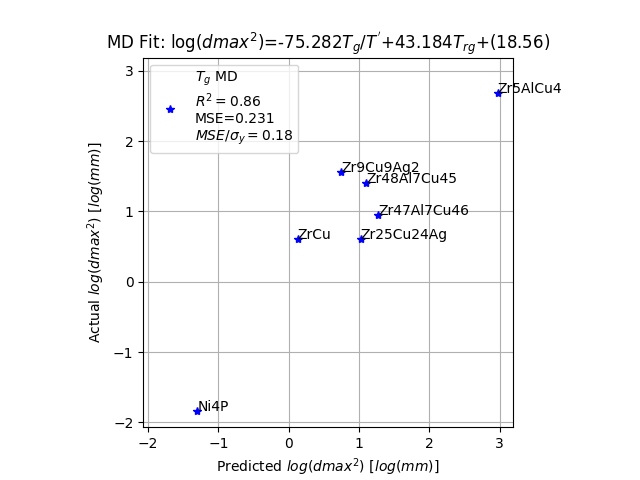
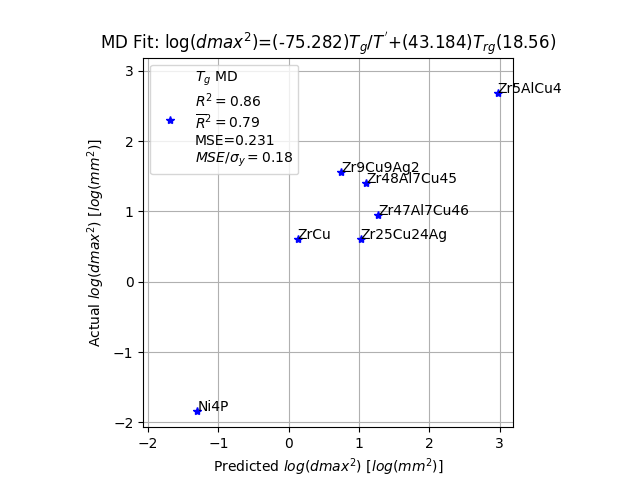
including r2bar metric for predictions

diff --git a/ml/visc_diff/scripts/fit_md_visc_tcut.py b/ml/visc_diff/scripts/fit_md_visc_tcut.py
@@ -9,14 +9,17 @@ import numpy as np
 import pickle
 
 
-def score(label, r2, mse, mseoversigmay, digits):
+def score(label, r2, r2bar, mse, mseoversigmay, digits):
 
     r2 = str(round(r2, digits))
+    r2bar = str(round(r2bar, digits))
     mse = str(round(mse, digits))
     mseoversigmay = str(round(mseoversigmay, digits))
 
     label += '\n'
     label += r'$R^{2}=$'+r2
+    label += '\n'
+    label += r'$\overline{R}^{2}=$'+r2bar
     label += '\n'
     label += r'MSE='+mse
     label += '\n'
@@ -27,12 +30,14 @@ def score(label, r2, mse, mseoversigmay, digits):
 
 def ml(reg, X_train, y_train):
 
+    samples = len(y_train)
     y_pred = reg.predict(X_train)  # Predictions
     r2 = metrics.r2_score(y_train, y_pred)  # R^2
+    r2bar = 1-(1-r2)*(samples-1)/(samples-len(reg.coef_)-1)
     mse = metrics.mean_squared_error(y_train, y_pred)  # MSE
     mseoversigmay = mse/np.std(y_train)  # MSE/sigmay
 
-    return y_pred, r2, mse, mseoversigmay
+    return y_pred, r2, r2bar, mse, mseoversigmay
 
 
 # Data path
@@ -56,11 +61,11 @@ intercpet = reg.intercept_  # Intercept
 
 # Predictions
 pred = ml(reg, X_train, y_train)
-y_pred, r2, mse, mseoversigmay = pred
+y_pred, r2, r2bar, mse, mseoversigmay = pred
 
 # Save performance scores
-score_type = ['r2', 'mse', 'mseoversigmay']
-score_value = [r2, mse, mseoversigmay]
+score_type = ['r2','r2bar', 'mse', 'mseoversigmay']
+score_value = [r2, r2bar, mse, mseoversigmay]
 df_score = pd.DataFrame({
                          'metric': score_type,
                          'score': score_value
@@ -77,9 +82,9 @@ fig, ax = pl.subplots()
 sigs = 3
 label = 'MD Fit: '
 label += r'log($dmax^2$)='
-label += str(round(coeffs[0], sigs))+r"$T_{g}/T^{*}$+"
-label += str(round(coeffs[1], sigs))+r'$T_{rg}$'
-label += '+('+str(round(intercpet, sigs))+')'
+label += '('+str(round(coeffs[0], sigs))+r"$)T_{g}/T^{'}$+"
+label += '('+str(round(coeffs[1], sigs))+r'$)T_{rg}$'
+label += '('+str(round(intercpet, sigs))+')'
 
 ax.set_title(label)
 
@@ -89,20 +94,20 @@ ax.plot(
         marker='*',
         linestyle='none',
         color='b',
-        label=score(r'$T_{g}$ MD', r2, mse, mseoversigmay, sigs)
+        label=score(r'$T_{g}$ MD', r2, r2bar, mse, mseoversigmay, sigs)
         )
 
 ax.legend(loc='best')
 ax.grid()
 
-ax.set_xlabel(r'Predicted $log(dmax^2)$ $[log(mm)]$')
-ax.set_ylabel(r'Actual $log(dmax^2)$ $[log(mm)]$')
+ax.set_xlabel(r'Predicted $log(dmax^2)$ $[log(mm^{2})]$')
+ax.set_ylabel(r'Actual $log(dmax^2)$ $[log(mm^{2})]$')
 
 if ax.get_ylim()[1] > ax.get_xlim()[1]:
     max_lim = ax.get_ylim()[1]
 else:
     max_lim = ax.get_xlim()[1]
-    
+
 if ax.get_ylim()[0] < ax.get_xlim()[0]:
     min_lim = ax.get_ylim()[0]
 else:

diff --git a/ml/visc_diff_Nb2Ni3_removed/scripts/fit_md_visc_tcut.py b/ml/visc_diff_Nb2Ni3_removed/scripts/fit_md_visc_tcut.py
@@ -9,14 +9,17 @@ import numpy as np
 import pickle
 
 
-def score(label, r2, mse, mseoversigmay, digits):
+def score(label, r2, r2bar, mse, mseoversigmay, digits):
 
     r2 = str(round(r2, digits))
+    r2bar = str(round(r2bar, digits))
     mse = str(round(mse, digits))
     mseoversigmay = str(round(mseoversigmay, digits))
 
     label += '\n'
     label += r'$R^{2}=$'+r2
+    label += '\n'
+    label += r'$\overline{R}^{2}=$'+r2bar
     label += '\n'
     label += r'MSE='+mse
     label += '\n'
@@ -27,12 +30,14 @@ def score(label, r2, mse, mseoversigmay, digits):
 
 def ml(reg, X_train, y_train):
 
+    samples = len(y_train)
     y_pred = reg.predict(X_train)  # Predictions
     r2 = metrics.r2_score(y_train, y_pred)  # R^2
+    r2bar = 1-(1-r2)*(samples-1)/(samples-len(reg.coef_)-1)
     mse = metrics.mean_squared_error(y_train, y_pred)  # MSE
     mseoversigmay = mse/np.std(y_train)  # MSE/sigmay
 
-    return y_pred, r2, mse, mseoversigmay
+    return y_pred, r2, r2bar, mse, mseoversigmay
 
 
 # Data path
@@ -57,11 +62,11 @@ intercpet = reg.intercept_  # Intercept
 
 # Predictions
 pred = ml(reg, X_train, y_train)
-y_pred, r2, mse, mseoversigmay = pred
+y_pred, r2, r2bar, mse, mseoversigmay = pred
 
 # Save performance scores
-score_type = ['r2', 'mse', 'mseoversigmay']
-score_value = [r2, mse, mseoversigmay]
+score_type = ['r2','r2bar', 'mse', 'mseoversigmay']
+score_value = [r2, r2bar, mse, mseoversigmay]
 df_score = pd.DataFrame({
                          'metric': score_type,
                          'score': score_value
@@ -78,9 +83,9 @@ fig, ax = pl.subplots()
 sigs = 3
 label = 'MD Fit: '
 label += r'log($dmax^2$)='
-label += str(round(coeffs[0], sigs))+r"$T_{g}/T^{*}$+"
-label += str(round(coeffs[1], sigs))+r'$T_{rg}$'
-label += '+('+str(round(intercpet, sigs))+')'
+label += '('+str(round(coeffs[0], sigs))+r"$)T_{g}/T^{'}$+"
+label += '('+str(round(coeffs[1], sigs))+r'$)T_{rg}$'
+label += '('+str(round(intercpet, sigs))+')'
 
 ax.set_title(label)
 
@@ -90,20 +95,20 @@ ax.plot(
         marker='*',
         linestyle='none',
         color='b',
-        label=score(r'$T_{g}$ MD', r2, mse, mseoversigmay, sigs)
+        label=score(r'$T_{g}$ MD', r2, r2bar, mse, mseoversigmay, sigs)
         )
 
 ax.legend(loc='best')
 ax.grid()
 
-ax.set_xlabel(r'Predicted $log(dmax^2)$ $[log(mm)]$')
-ax.set_ylabel(r'Actual $log(dmax^2)$ $[log(mm)]$')
+ax.set_xlabel(r'Predicted $log(dmax^2)$ $[log(mm^{2})]$')
+ax.set_ylabel(r'Actual $log(dmax^2)$ $[log(mm^{2})]$')
 
 if ax.get_ylim()[1] > ax.get_xlim()[1]:
     max_lim = ax.get_ylim()[1]
 else:
     max_lim = ax.get_xlim()[1]
-    
+
 if ax.get_ylim()[0] < ax.get_xlim()[0]:
     min_lim = ax.get_ylim()[0]
 else:

diff --git a/ml/visc_diff/scripts/fit_md_diff_tcut.py b/ml/visc_diff/scripts/fit_md_diff_tcut.py
@@ -9,14 +9,17 @@ import numpy as np
 import pickle
 
 
-def score(label, r2, mse, mseoversigmay, digits):
+def score(label, r2, r2bar, mse, mseoversigmay, digits):
 
     r2 = str(round(r2, digits))
+    r2bar = str(round(r2bar, digits))
     mse = str(round(mse, digits))
     mseoversigmay = str(round(mseoversigmay, digits))
 
     label += '\n'
     label += r'$R^{2}=$'+r2
+    label += '\n'
+    label += r'$\overline{R}^{2}=$'+r2bar
     label += '\n'
     label += r'MSE='+mse
     label += '\n'
@@ -27,12 +30,14 @@ def score(label, r2, mse, mseoversigmay, digits):
 
 def ml(reg, X_train, y_train):
 
+    samples = len(y_train)
     y_pred = reg.predict(X_train)  # Predictions
     r2 = metrics.r2_score(y_train, y_pred)  # R^2
+    r2bar = 1-(1-r2)*(samples-1)/(samples-len(reg.coef_)-1)
     mse = metrics.mean_squared_error(y_train, y_pred)  # MSE
     mseoversigmay = mse/np.std(y_train)  # MSE/sigmay
 
-    return y_pred, r2, mse, mseoversigmay
+    return y_pred, r2, r2bar, mse, mseoversigmay
 
 
 # Data path
@@ -56,11 +61,11 @@ intercpet = reg.intercept_  # Intercept
 
 # Predictions
 pred = ml(reg, X_train, y_train)
-y_pred, r2, mse, mseoversigmay = pred
+y_pred, r2, r2bar, mse, mseoversigmay = pred
 
 # Save performance scores
-score_type = ['r2', 'mse', 'mseoversigmay']
-score_value = [r2, mse, mseoversigmay]
+score_type = ['r2','r2bar', 'mse', 'mseoversigmay']
+score_value = [r2, r2bar, mse, mseoversigmay]
 df_score = pd.DataFrame({
                          'metric': score_type,
                          'score': score_value
@@ -77,9 +82,9 @@ fig, ax = pl.subplots()
 sigs = 3
 label = 'MD Fit: '
 label += r'log($dmax^2$)='
-label += str(round(coeffs[0], sigs))+r"$T_{g}/T^{'}$+"
-label += str(round(coeffs[1], sigs))+r'$T_{rg}$'
-label += '+('+str(round(intercpet, sigs))+')'
+label += '('+str(round(coeffs[0], sigs))+r"$)T_{g}/T^{'}$+"
+label += '('+str(round(coeffs[1], sigs))+r'$)T_{rg}$'
+label += '('+str(round(intercpet, sigs))+')'
 
 ax.set_title(label)
 
@@ -89,14 +94,14 @@ ax.plot(
         marker='*',
         linestyle='none',
         color='b',
-        label=score(r'$T_{g}$ MD', r2, mse, mseoversigmay, sigs)
+        label=score(r'$T_{g}$ MD', r2, r2bar, mse, mseoversigmay, sigs)
         )
 
 ax.legend(loc='best')
 ax.grid()
 
-ax.set_xlabel(r'Predicted $log(dmax^2)$ $[log(mm)]$')
-ax.set_ylabel(r'Actual $log(dmax^2)$ $[log(mm)]$')
+ax.set_xlabel(r'Predicted $log(dmax^2)$ $[log(mm^{2})]$')
+ax.set_ylabel(r'Actual $log(dmax^2)$ $[log(mm^{2})]$')
 
 if ax.get_ylim()[1] > ax.get_xlim()[1]:
     max_lim = ax.get_ylim()[1]

diff --git a/ml/visc_diff_Nb2Ni3_removed/scripts/fit_md_diff_tcut.py b/ml/visc_diff_Nb2Ni3_removed/scripts/fit_md_diff_tcut.py
@@ -9,14 +9,17 @@ import numpy as np
 import pickle
 
 
-def score(label, r2, mse, mseoversigmay, digits):
+def score(label, r2, r2bar, mse, mseoversigmay, digits):
 
     r2 = str(round(r2, digits))
+    r2bar = str(round(r2bar, digits))
     mse = str(round(mse, digits))
     mseoversigmay = str(round(mseoversigmay, digits))
 
     label += '\n'
     label += r'$R^{2}=$'+r2
+    label += '\n'
+    label += r'$\overline{R}^{2}=$'+r2bar
     label += '\n'
     label += r'MSE='+mse
     label += '\n'
@@ -27,12 +30,14 @@ def score(label, r2, mse, mseoversigmay, digits):
 
 def ml(reg, X_train, y_train):
 
+    samples = len(y_train)
     y_pred = reg.predict(X_train)  # Predictions
     r2 = metrics.r2_score(y_train, y_pred)  # R^2
+    r2bar = 1-(1-r2)*(samples-1)/(samples-len(reg.coef_)-1)
     mse = metrics.mean_squared_error(y_train, y_pred)  # MSE
     mseoversigmay = mse/np.std(y_train)  # MSE/sigmay
 
-    return y_pred, r2, mse, mseoversigmay
+    return y_pred, r2, r2bar, mse, mseoversigmay
 
 
 # Data path
@@ -57,11 +62,11 @@ intercpet = reg.intercept_  # Intercept
 
 # Predictions
 pred = ml(reg, X_train, y_train)
-y_pred, r2, mse, mseoversigmay = pred
+y_pred, r2, r2bar, mse, mseoversigmay = pred
 
 # Save performance scores
-score_type = ['r2', 'mse', 'mseoversigmay']
-score_value = [r2, mse, mseoversigmay]
+score_type = ['r2','r2bar', 'mse', 'mseoversigmay']
+score_value = [r2, r2bar, mse, mseoversigmay]
 df_score = pd.DataFrame({
                          'metric': score_type,
                          'score': score_value
@@ -78,9 +83,9 @@ fig, ax = pl.subplots()
 sigs = 3
 label = 'MD Fit: '
 label += r'log($dmax^2$)='
-label += str(round(coeffs[0], sigs))+r"$T_{g}/T^{'}$+"
-label += str(round(coeffs[1], sigs))+r'$T_{rg}$'
-label += '+('+str(round(intercpet, sigs))+')'
+label += '('+str(round(coeffs[0], sigs))+r"$)T_{g}/T^{'}$+"
+label += '('+str(round(coeffs[1], sigs))+r'$)T_{rg}$'
+label += '('+str(round(intercpet, sigs))+')'
 
 ax.set_title(label)
 
@@ -90,14 +95,14 @@ ax.plot(
         marker='*',
         linestyle='none',
         color='b',
-        label=score(r'$T_{g}$ MD', r2, mse, mseoversigmay, sigs)
+        label=score(r'$T_{g}$ MD', r2, r2bar, mse, mseoversigmay, sigs)
         )
 
 ax.legend(loc='best')
 ax.grid()
 
-ax.set_xlabel(r'Predicted $log(dmax^2)$ $[log(mm)]$')
-ax.set_ylabel(r'Actual $log(dmax^2)$ $[log(mm)]$')
+ax.set_xlabel(r'Predicted $log(dmax^2)$ $[log(mm^{2})]$')
+ax.set_ylabel(r'Actual $log(dmax^2)$ $[log(mm^{2})]$')
 
 if ax.get_ylim()[1] > ax.get_xlim()[1]:
     max_lim = ax.get_ylim()[1]
